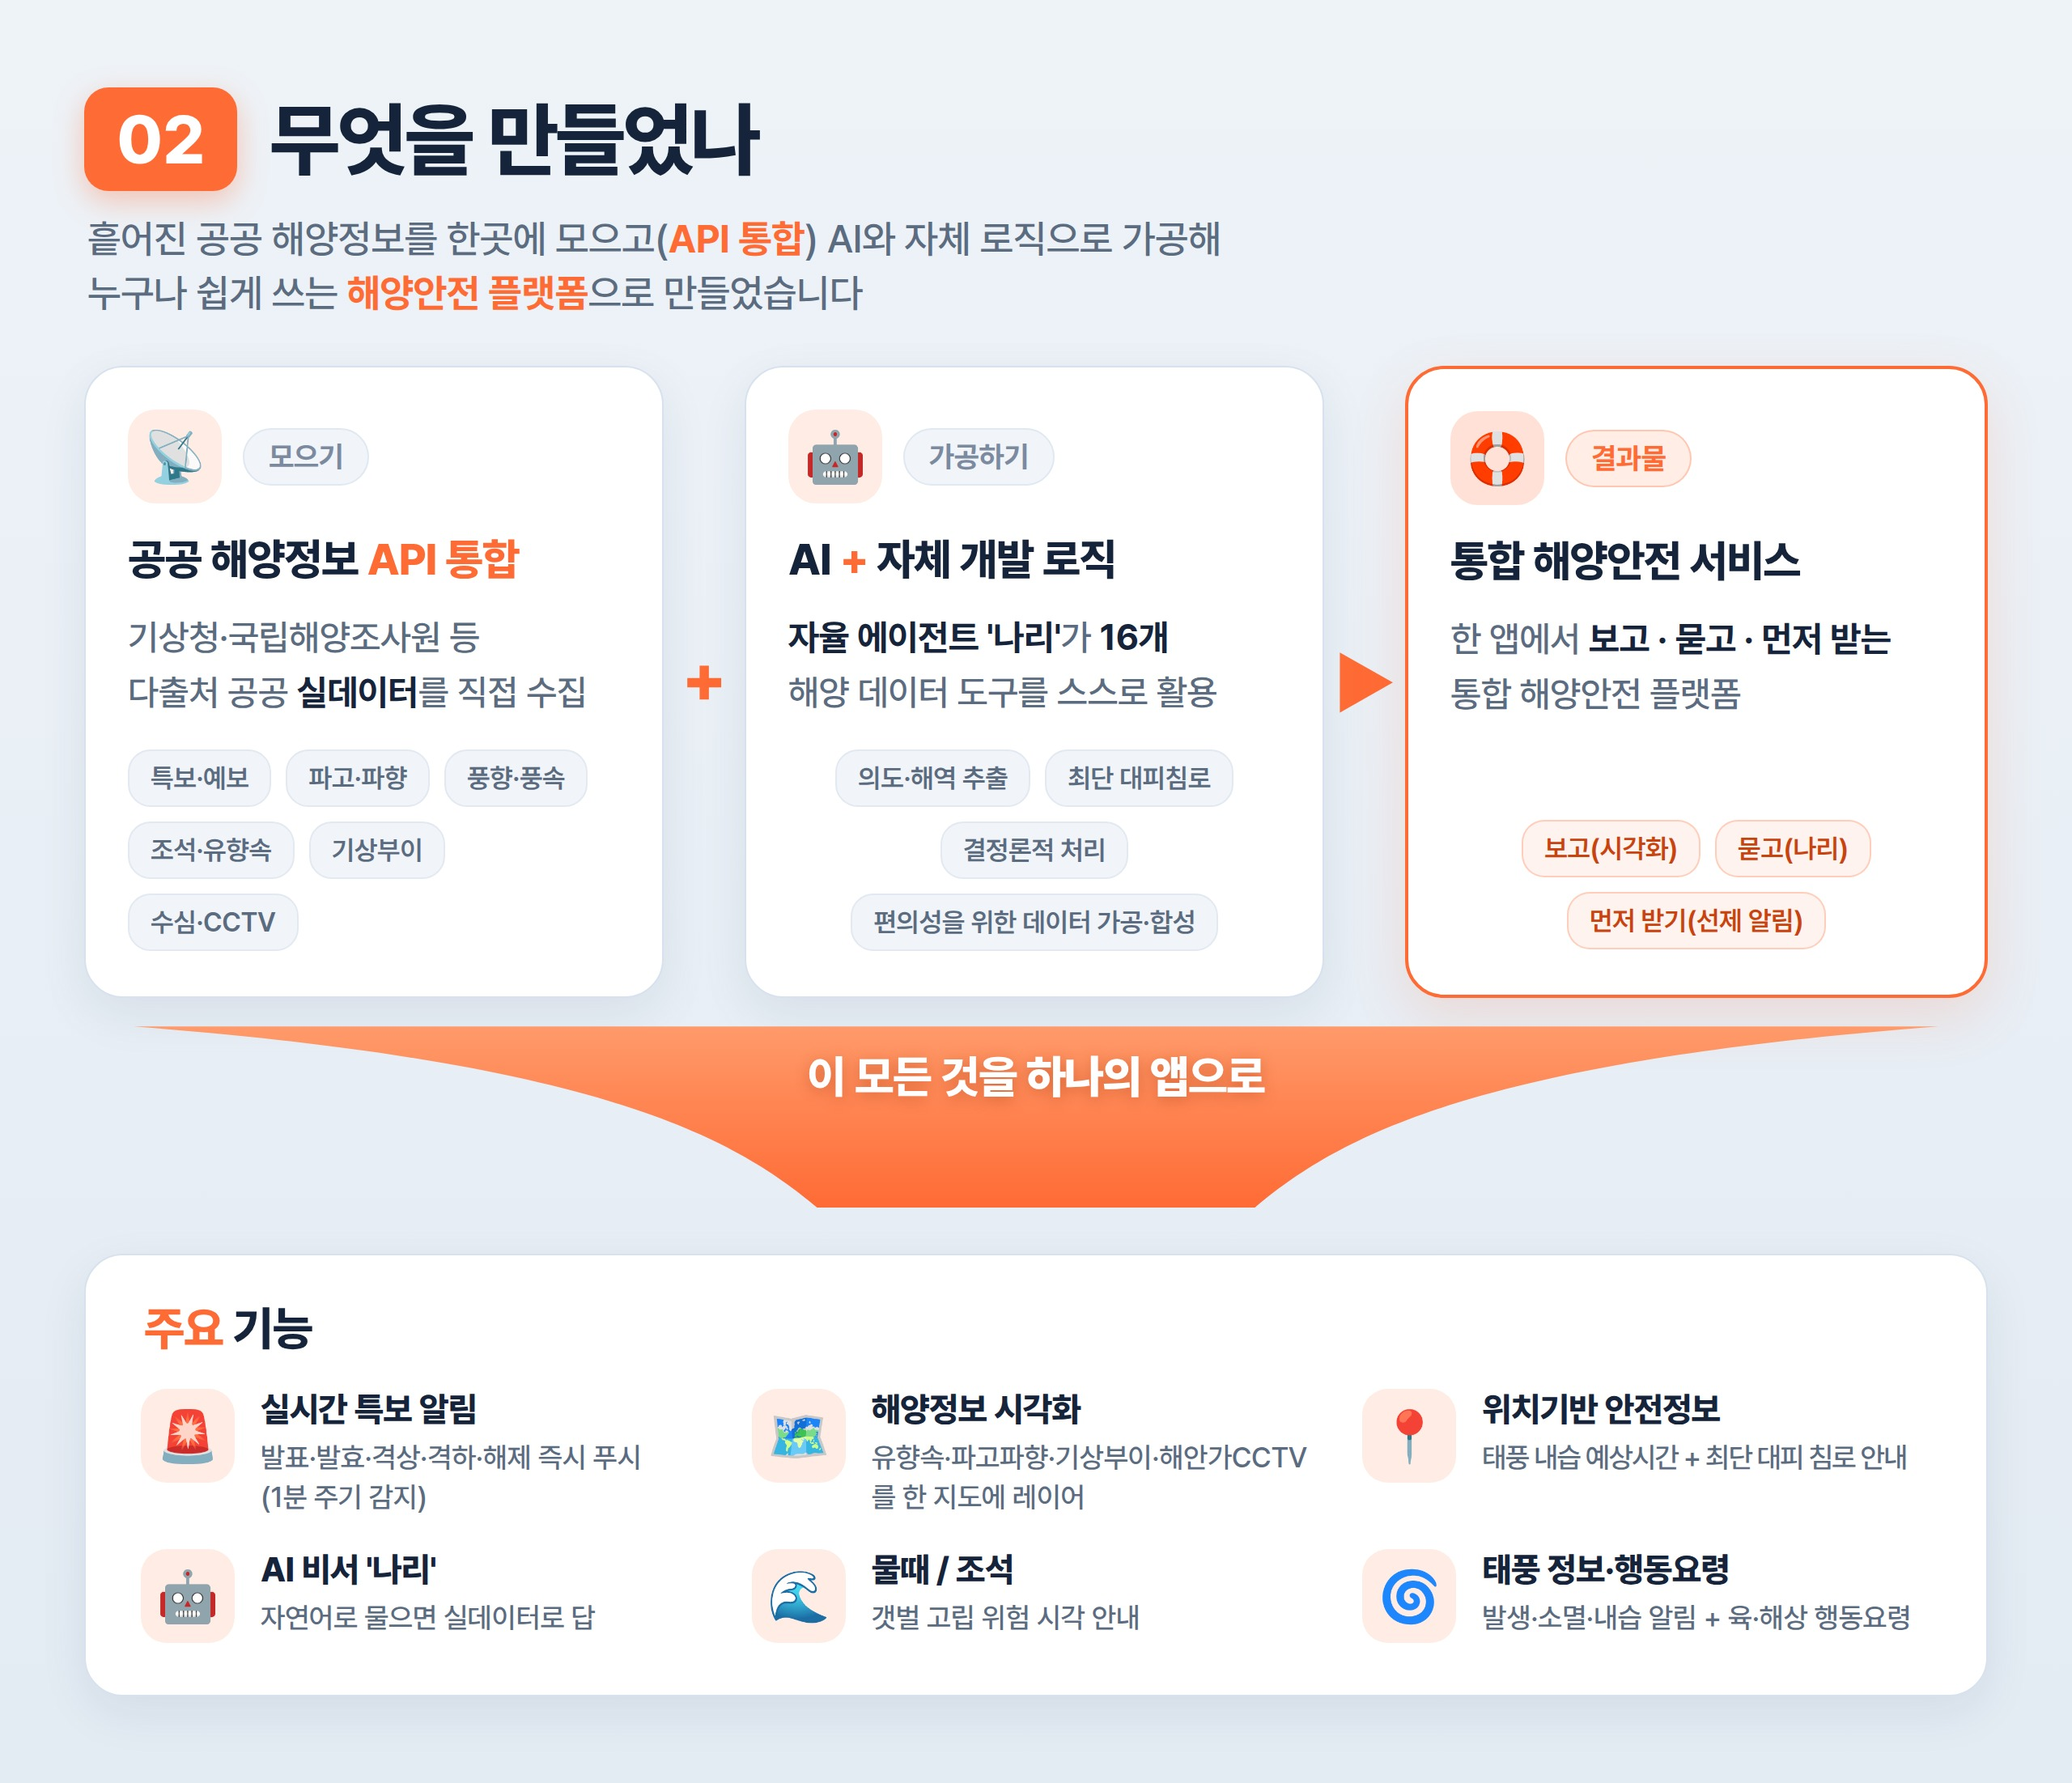
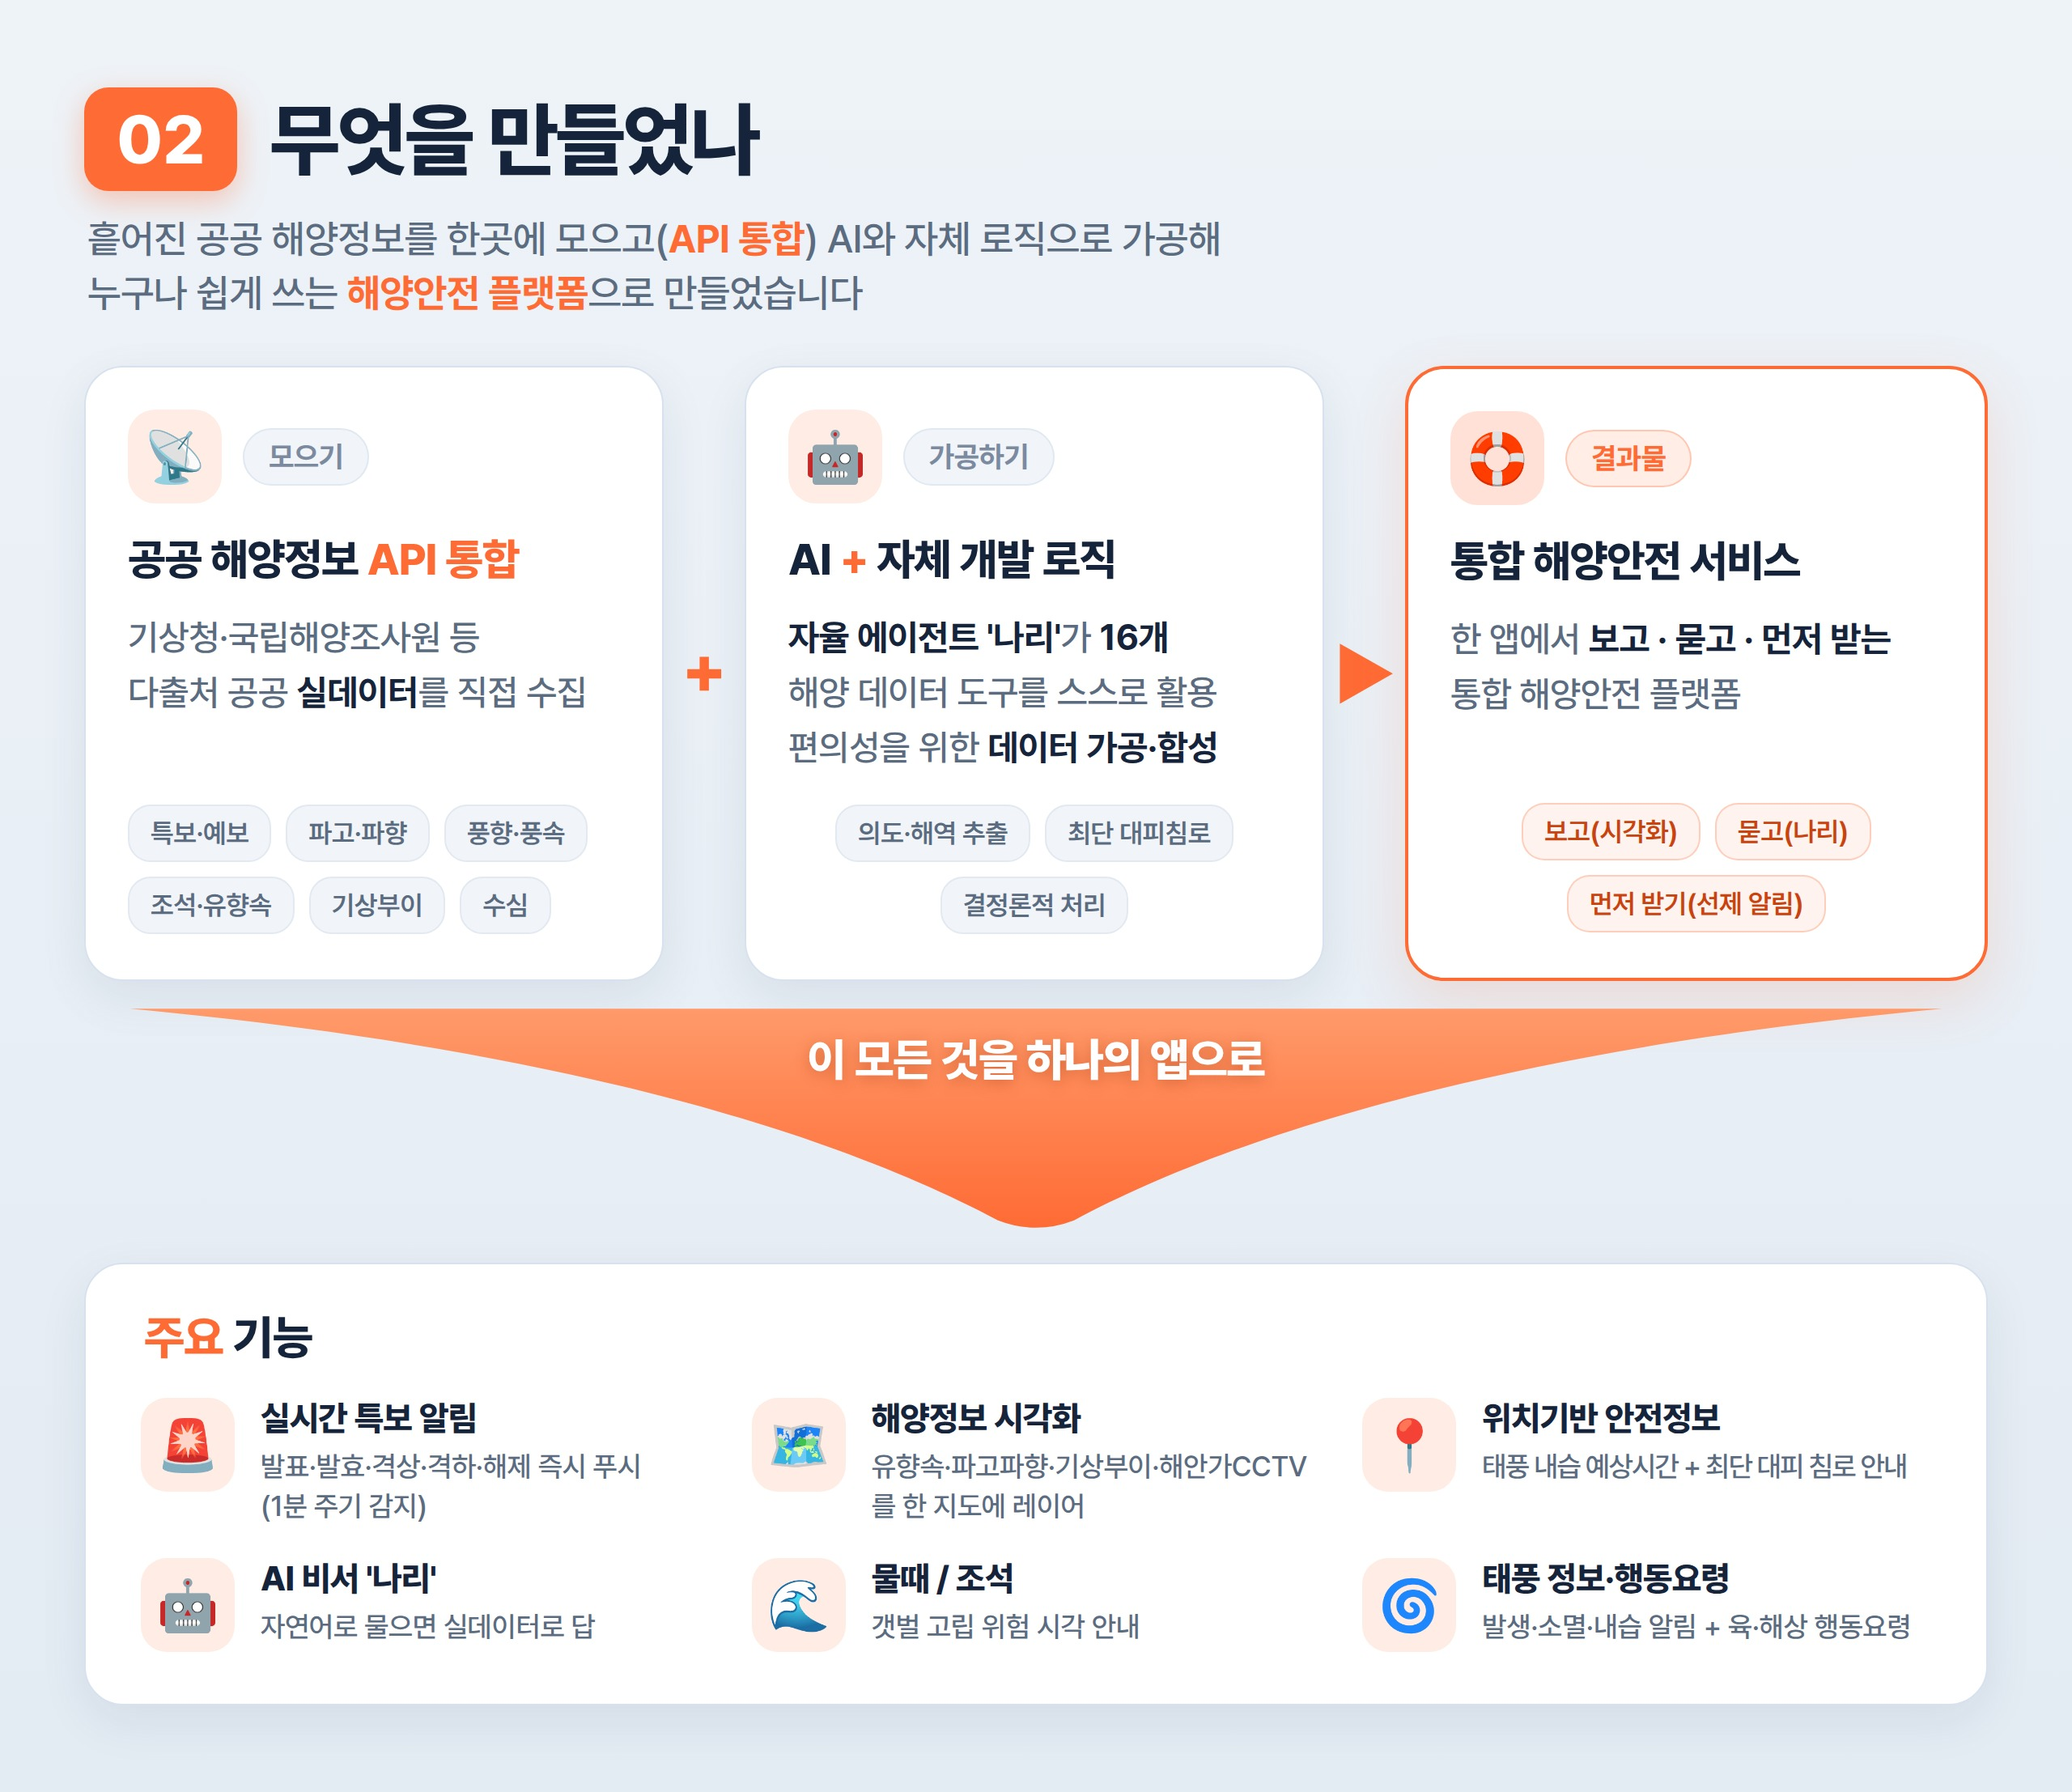
fix(formboard): 02 박스1 수심(2줄)·박스2 가공합성 본문화·화살표 넓은 둔각
- 박스1: '수심·CCTV'→'수심'으로 태그 2줄 정리
- 박스2: '편의성을 위한 데이터 가공·합성'을 태그→본문 3번째 줄(나리가와 동일 크기)
- 중앙 화살표: 넓은 폭 + 둔각 끝(잘림 방지)

Claude-Session: https://claude.ai/code/session_01NPSXCfcq7AeQ1foaBkT7hE

diff --git a/keynote_seagnal/formboard_what.html b/keynote_seagnal/formboard_what.html
@@ -32,7 +32,7 @@ html,body{font-family:'Pretendard',sans-serif;-webkit-font-smoothing:antialiased
 .conn{flex:0 0 50px;display:flex;align-items:center;justify-content:center;color:#FF6B35;font-size:42px;font-weight:800;}
 
 /* ── 중앙: 아래로 향하는 곡선 화살표 (부드러운 스웨이) ── */
-.funnel{position:relative;width:100%;height:138px;margin:8px 0 12px;}
+.funnel{position:relative;width:100%;height:152px;margin:8px 0 14px;}
 .funnel svg{position:absolute;inset:0;width:100%;height:100%;display:block;}
 .funnel .ftext{position:absolute;left:0;right:0;top:24px;text-align:center;color:#fff;font-size:28px;font-weight:800;letter-spacing:-.02em;text-shadow:0 2px 9px rgba(160,50,10,.4);}
 
@@ -57,7 +57,7 @@ html,body{font-family:'Pretendard',sans-serif;-webkit-font-smoothing:antialiased
      <div class="fhead"><div class="ficon">📡</div><span class="fstep">모으기</span></div>
      <div class="ftt">공공 해양정보 <span class="o">API 통합</span></div>
      <div class="fdesc">기상청·국립해양조사원 등<br>다출처 공공 <b>실데이터</b>를 직접 수집</div>
-     <div class="ftags"><span class="ftag">특보·예보</span><span class="ftag">파고·파향</span><span class="ftag">풍향·풍속</span><span class="ftag">조석·유향속</span><span class="ftag">기상부이</span><span class="ftag">수심·CCTV</span></div>
+     <div class="ftags"><span class="ftag">특보·예보</span><span class="ftag">파고·파향</span><span class="ftag">풍향·풍속</span><span class="ftag">조석·유향속</span><span class="ftag">기상부이</span><span class="ftag">수심</span></div>
    </div>
 
    <div class="conn">＋</div>
@@ -65,8 +65,8 @@ html,body{font-family:'Pretendard',sans-serif;-webkit-font-smoothing:antialiased
    <div class="cardbox fbox">
      <div class="fhead"><div class="ficon">🤖</div><span class="fstep">가공하기</span></div>
      <div class="ftt">AI <span class="o">+</span> 자체 개발 로직</div>
-     <div class="fdesc"><b>자율 에이전트 '나리'</b>가 <b>16개</b><br>해양 데이터 도구를 스스로 활용</div>
-     <div class="ftags cen"><span class="ftag">의도·해역 추출</span><span class="ftag">최단 대피침로</span><span class="ftag">결정론적 처리</span><span class="ftag">편의성을 위한 데이터 가공·합성</span></div>
+     <div class="fdesc"><b>자율 에이전트 '나리'</b>가 <b>16개</b><br>해양 데이터 도구를 스스로 활용<br>편의성을 위한 <b>데이터 가공·합성</b></div>
+     <div class="ftags cen"><span class="ftag">의도·해역 추출</span><span class="ftag">최단 대피침로</span><span class="ftag">결정론적 처리</span></div>
    </div>
 
    <div class="conn">▶</div>
@@ -83,7 +83,7 @@ html,body{font-family:'Pretendard',sans-serif;-webkit-font-smoothing:antialiased
  <div class="funnel">
    <svg viewBox="0 0 1000 200" preserveAspectRatio="none">
      <defs><linearGradient id="fgrad" x1="0" y1="0" x2="0" y2="1"><stop offset="0" stop-color="#FF9A6A"/><stop offset="1" stop-color="#FF6B35"/></linearGradient></defs>
-     <path d="M26,14 L974,14 C730,46 660,112 615,176 L385,176 C340,112 270,46 26,14 Z" fill="url(#fgrad)"/>
+     <path d="M24,12 L976,12 C740,46 600,118 520,184 Q500,196 480,184 C400,118 260,46 24,12 Z" fill="url(#fgrad)"/>
    </svg>
    <div class="ftext">이 모든 것을 <b>하나의 앱</b>으로</div>
  </div>
